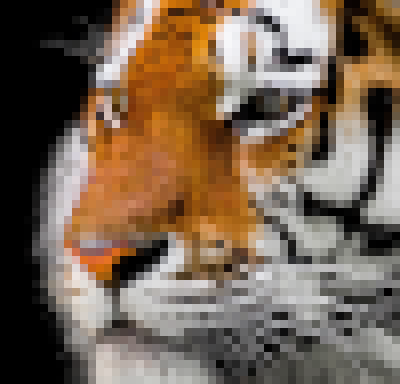
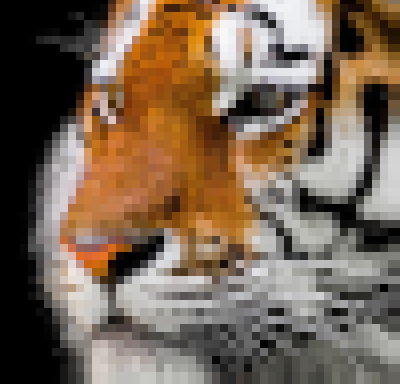
fixing nearest_neighbor_fct

diff --git a/lib_interpolate.py b/lib_interpolate.py
@@ -48,7 +48,9 @@ def tuple_cast(t,min_val=0,max_val=255):
 ################################
 # https://clouard.users.greyc.fr/Pantheon/experiments/rescaling/index-fr.html
 def nearest_neighbor_fct(x):
-    if x > 0:
+    if x >= 0.5:
+        return 0;
+    elif -0.5 <= x < 0.5:
         return 1
     else:
         return 0

diff --git a/upscaling_convolution.py b/upscaling_convolution.py
@@ -94,7 +94,6 @@ def upcaling(filename,upscale_value):
 
             # Get coeffs
             conv_coeffs = convolution_get_coeffs(y_frac,filter_size,filter_fct)
-
             conv_pixels = convolution_get_pixels(x_,int(y_),x_upscale_im,filter_size,axis="y")
 
             # Convolution 1d
